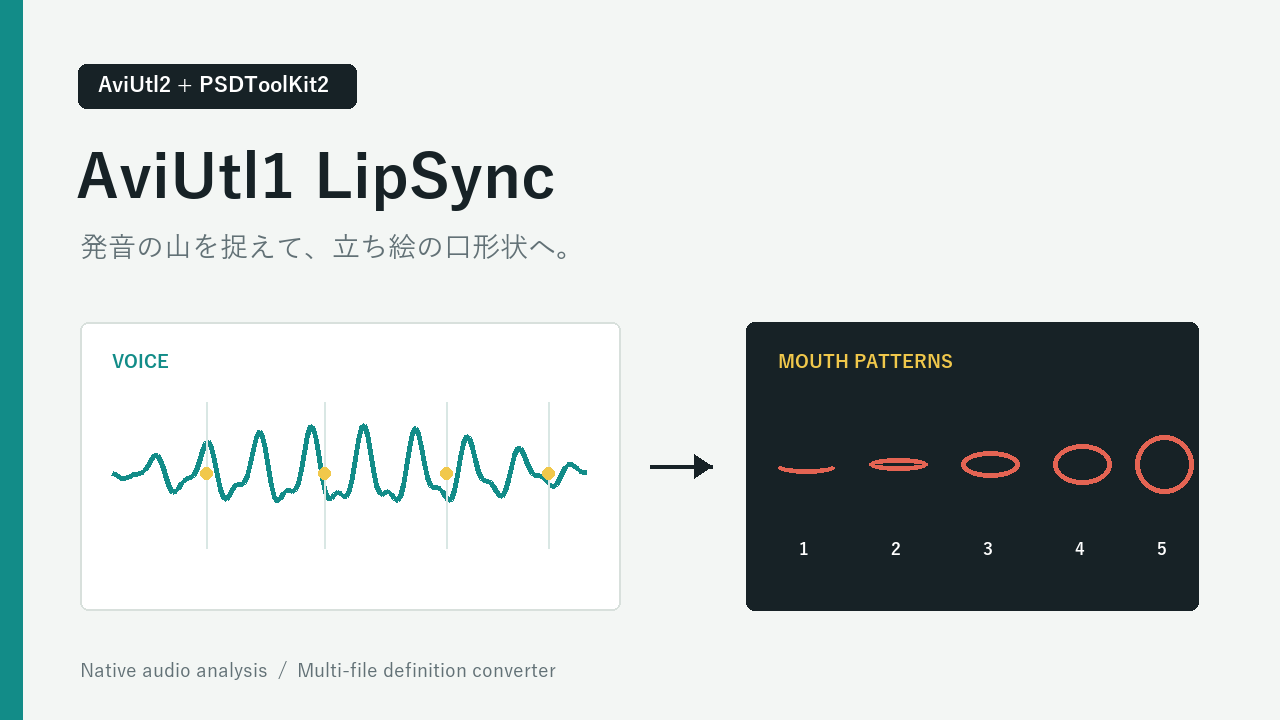
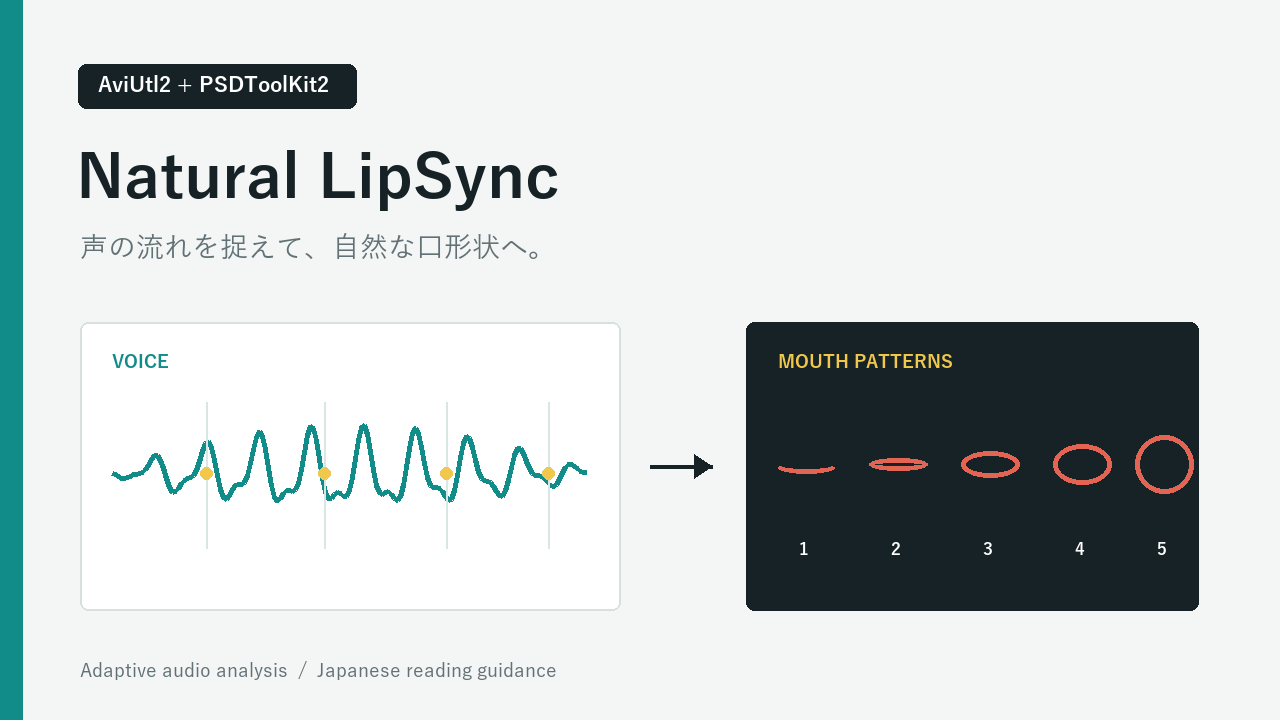
chore(branding): 公開名をNatural LipSyncへ変更

Changed region(s): [[0.0625, 0.2139, 0.4375, 0.3667], [0.0625, 0.9167, 0.4375, 0.9472], [0.0625, 0.3056, 0.1562, 0.3667]]

diff --git a/catalog/generate_assets.py b/catalog/generate_assets.py
@@ -91,7 +91,7 @@ def create_thumbnail() -> None:
     draw.rounded_rectangle((18, 18, 188, 125), radius=8, fill="#203137", outline="#31464B", width=2)
     draw_waveform(draw, (33, 39, 173, 101), color=TEAL, width=4)
     draw_mouth(draw, (103, 83), (66, 26), 0.72, color=CORAL, width=4)
-    draw.text((18, 140), "AviUtl1", font=load_font(24, bold=True), fill=WHITE)
+    draw.text((18, 140), "NATURAL", font=load_font(24, bold=True), fill=WHITE)
     draw.text((18, 171), "LIP SYNC", font=load_font(16, bold=True), fill=YELLOW)
     image.save(IMAGE_DIRECTORY / "thumbnail.png", optimize=True)
 
@@ -102,8 +102,8 @@ def create_detail() -> None:
     draw.rectangle((0, 0, 22, 720), fill=TEAL)
     draw.rounded_rectangle((78, 64, 356, 108), radius=8, fill=INK)
     draw.text((98, 73), "AviUtl2 + PSDToolKit2", font=load_font(21, bold=True), fill=WHITE)
-    draw.text((76, 144), "AviUtl1 LipSync", font=load_font(62, bold=True), fill=INK)
-    draw.text((80, 232), "発音の山を捉えて、立ち絵の口形状へ。", font=load_font(28), fill=MUTED)
+    draw.text((76, 144), "Natural LipSync", font=load_font(62, bold=True), fill=INK)
+    draw.text((80, 232), "声の流れを捉えて、自然な口形状へ。", font=load_font(28), fill=MUTED)
 
     draw.rounded_rectangle((80, 322, 620, 610), radius=8, fill=WHITE, outline="#D8E0DC", width=2)
     draw.text((112, 352), "VOICE", font=load_font(18, bold=True), fill=TEAL)
@@ -123,7 +123,7 @@ def create_detail() -> None:
         draw_mouth(draw, (center_x, 464), (58, 58), state, color=CORAL, width=5)
         draw.text((center_x - 7, 540), str(index + 1), font=load_font(17, bold=True), fill=WHITE)
 
-    draw.text((80, 660), "Native audio analysis  /  Multi-file definition converter", font=load_font(19), fill=MUTED)
+    draw.text((80, 660), "Adaptive audio analysis  /  Japanese reading guidance", font=load_font(19), fill=MUTED)
     image.save(IMAGE_DIRECTORY / "detail.png", optimize=True)
 
 

diff --git a/native/src/module.cpp b/native/src/module.cpp
@@ -601,7 +601,7 @@ SCRIPT_MODULE_FUNCTION kFunctions[] = {
 };
 
 SCRIPT_MODULE_TABLE kModuleTable = {
-    L"AviUtl1-compatible PSDToolKit syllable lip-sync analyzer 2.0.0",
+    L"PSDToolKit Natural LipSync analyzer 2.0.0",
     kFunctions,
 };
 

diff --git a/README.md b/README.md
@@ -1,16 +1,16 @@
-# PSDToolKit AviUtl1 LipSync
+# PSDToolKit Natural LipSync
 
-AviUtl2版PSDToolKit2の立ち絵を、AviUtl1版PSDToolKitに近いタイミングで口パクさせるための非公式互換ランタイムです。公式の`PSDToolKit.lua`は変更しません。
+AviUtl2版PSDToolKit2の立ち絵を、音声の強弱・スペクトル変化・日本語読みから自然に口パクさせる非公式ランタイムです。AviUtl1版PSDToolKitの音声解析を土台にしていますが、完全再現ではなく、さまざまな声質や口形状で自然に見える動きを目指しています。公式の`PSDToolKit.lua`は変更しません。
 
 ## 特徴
 
-- AviUtl1版PSDToolKitと同じ256サンプルのHamming窓、Ooura RDFT、音量判定をネイティブモジュールで再現します。
-- 16-bit PCM WAVはAviUtl2のメディアキャッシュを介さず読み取り、AviUtl1と同じ24 kHzへの変換と整数化を行います。
+- 256サンプルのHamming窓、Ooura RDFT、音量判定を基礎に、発音の山と音色の変化をネイティブモジュールで解析します。
+- 16-bit PCM WAVはAviUtl2のメディアキャッシュを介さず読み取り、安定した24 kHzの解析音声へ変換します。
 - 同名の`.txt`が音声の隣にある場合、日本語読みを口パク候補数の上限として利用します。
 - 高音域や子音も拾えるスペクトル変化を使い、短すぎる開閉や中間口形状の不自然な全閉じを抑えます。
 - `.anm2` / `.obj2`を複数まとめてドラッグ＆ドロップ変換できます。
 
-本ツールの通常モードは、AviUtl1の解析方式を基礎に発話追従の補正を加えたものです。16-bit PCM WAV向けの厳密な旧状態判定も`LipSyncAviUtl1Legacy.lua`として同梱していますが、変換ツールは通常モードを設定します。
+本ツールの通常モードは、AviUtl1の解析方式を技術的な出発点として、発話追従、中間口形状、高音域への補正を加えたものです。16-bit PCM WAV向けの厳密な旧状態判定も`LipSyncAviUtl1Legacy.lua`として同梱していますが、変換ツールは自然さを優先する通常モードを設定します。
 
 ## 必要環境
 
@@ -24,7 +24,7 @@ AviUtl2版PSDToolKit2の立ち絵を、AviUtl1版PSDToolKitに近いタイミン
 
 ### AviUtl2カタログまたはパッケージファイル
 
-Releasesから`PSDToolKit_AviUtl1LipSync_v*.au2pkg.zip`を取得します。AviUtl2カタログではパッケージファイルとして読み込めます。手動の場合はZIPの`Script`フォルダを`C:\ProgramData\aviutl2`へ展開してください。
+Releasesから`PSDToolKit_NaturalLipSync_v*.au2pkg.zip`を取得します。AviUtl2カタログではパッケージファイルとして読み込めます。手動の場合はZIPの`Script`フォルダを`C:\ProgramData\aviutl2`へ展開してください。
 
 インストール後は次の3ファイルが同じ場所に置かれます。
 
@@ -51,9 +51,11 @@ C:\ProgramData\aviutl2\Script\PSDToolKit\LipSyncAviUtl1.mod2
 
 旧名を直接`require`している独自定義は、新しいモジュール名へ変更するか、元のPSDToolKit定義から通常モードへ再変換してください。変換ツールが生成した通常モードの定義と、`LipSyncAviUtl1`を参照している既存エイリアスには影響しません。
 
+公開名は2.0.0から`PSDToolKit Natural LipSync`へ変更しました。既存定義と更新導入を維持するため、ランタイムの`LipSyncAviUtl1`というファイル名、カタログID、`AviUtl1LipSyncTools`という導入先フォルダ名は内部互換名として残しています。
+
 ## 対応範囲
 
-16-bit PCM WAVのモノラル、およびステレオのトラック0を主な互換対象としています。圧縮音声や24 kHz未満の音声はAviUtl2のデコーダーを経由するため、AviUtl1との完全一致を保証しません。
+16-bit PCM WAVのモノラル、およびステレオのトラック0を主な高精度解析対象としています。圧縮音声や24 kHz未満の音声はAviUtl2のデコーダーを経由するため、解析結果が異なる場合があります。
 
 口形状はPSDToolKit定義に登録されている順番を使用します。閉じ・開きの2形状だけでも、半開きなどを含む3から5形状でも動作します。
 

diff --git a/CHANGELOG.md b/CHANGELOG.md
@@ -2,6 +2,7 @@
 
 ## 2.0.0 - 2026-08-04
 
+- 公開名を`PSDToolKit Natural LipSync`へ変更し、自然な口パクを目指す現在の方針へ説明と配布名を統一
 - 厳密な旧状態判定モジュールを`LipSyncAviUtl1Legacy.lua`へ改名
 - 旧モジュール名との互換性を廃止し、MtU固有に見える公開API名を削除
 - 変換ツール・配布パッケージ・カタログを新しい汎用名へ統一
